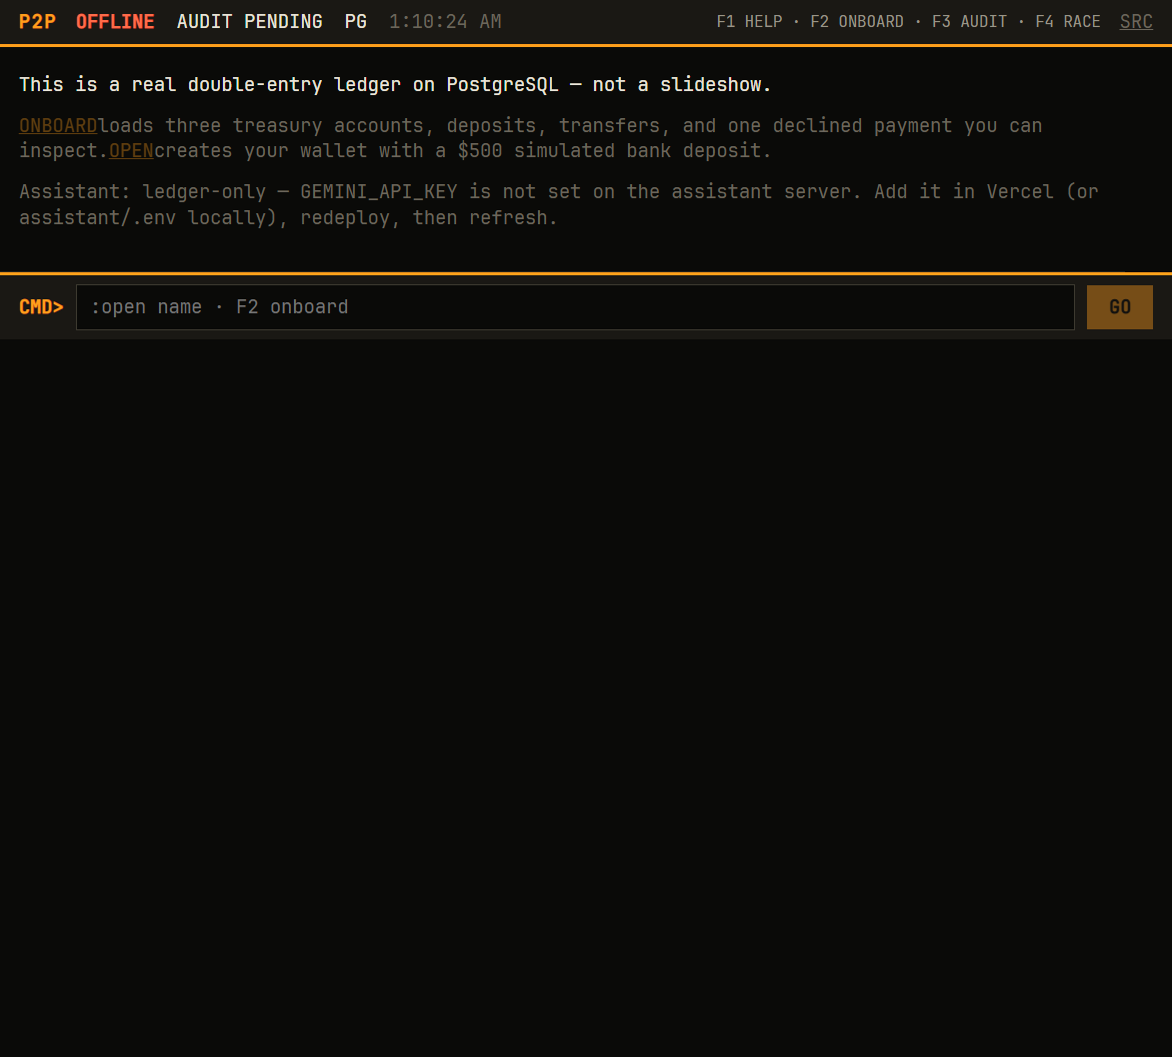
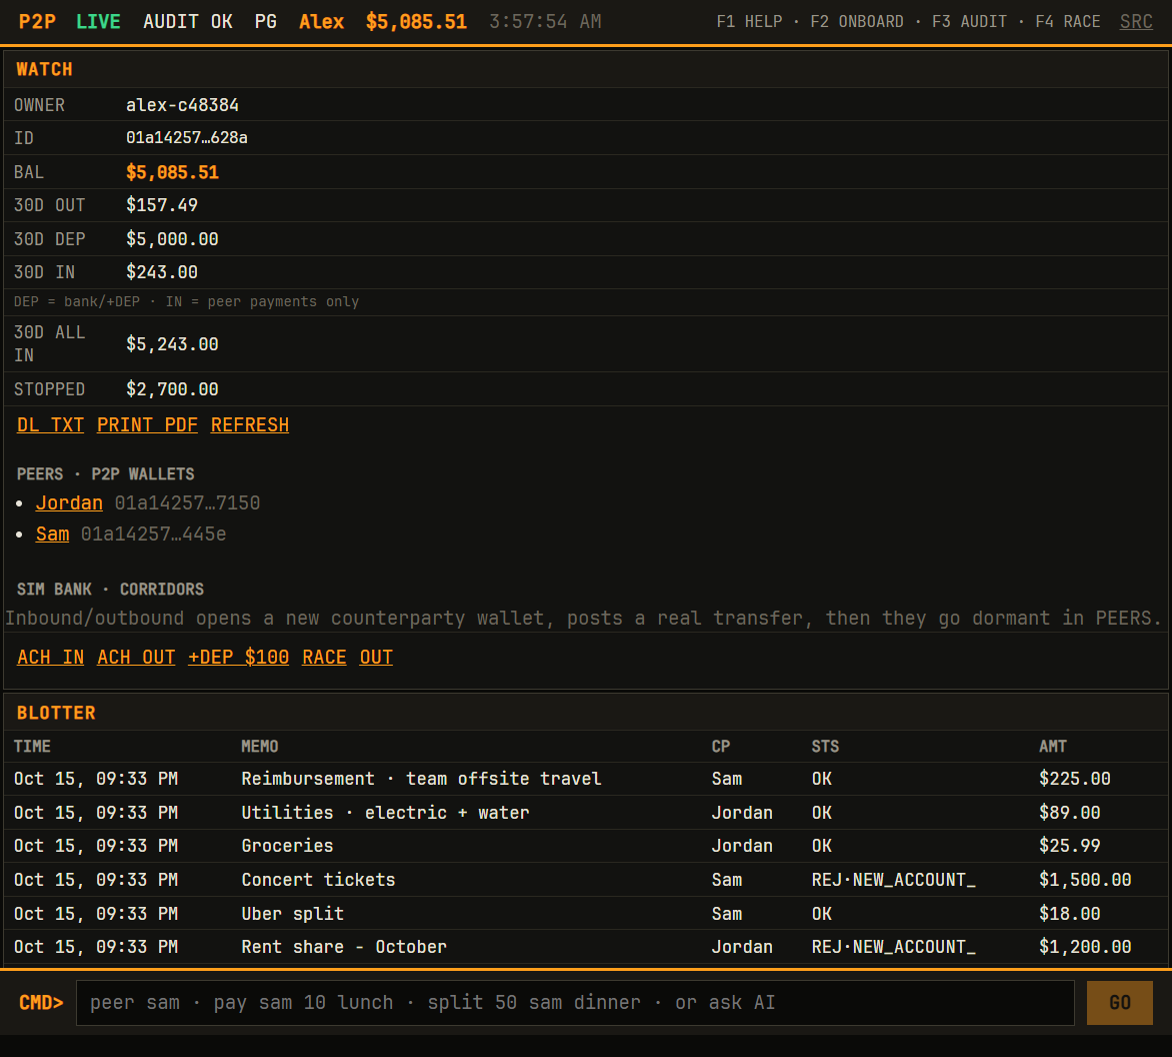
docs: professional README, workstation screenshot, image guide
Merge follow-up: hero figure from live demo, ops briefing link, accurate terminal copy, refresh terminal-watch asset.

diff --git a/README.md b/README.md
@@ -1,15 +1,15 @@
 # p2p-ledger
 
-**A production-style peer-to-peer payments ledger with an LLM support layer** — double-entry money movement in Java, a TypeScript app API and UI, and deterministic evals over real account data.
+**Production-style peer-to-peer payments ledger with an LLM support layer** — double-entry money movement in Java, a TypeScript terminal and BFF, and deterministic evals over real account data.
 
 <p align="center">
-  <a href="https://p2p-ledger-pi.vercel.app"><strong>Live assistant</strong></a>
+  <a href="https://p2p-ledger-pi.vercel.app"><strong>Live demo</strong></a>
   ·
-  <a href="docs/API.md">API reference</a>
+  <a href="docs/API.md">API</a>
   ·
-  <a href="docs/ARCHITECTURE.md">Ledger deep-dive</a>
+  <a href="docs/ARCHITECTURE.md">Architecture</a>
   ·
-  <a href="docs/P2P-SOLIDITY-AND-SCALE.md">P2P &amp; on-chain</a>
+  <a href="docs/BRIEFING.md">Ops briefing</a>
 </p>
 
 <p align="center">
@@ -17,99 +17,73 @@
   <a href="https://github.com/developer-az/p2p-ledger/actions/workflows/assistant-ci.yml"><img src="https://github.com/developer-az/p2p-ledger/actions/workflows/assistant-ci.yml/badge.svg" alt="assistant CI"></a>
 </p>
 
+<p align="center">
+  <img src="docs/images/terminal-workstation.png" alt="P2P ledger terminal — WATCH, BLOTTER, AUDIT/MSG, and command line on PostgreSQL" width="900">
+</p>
+<p align="center"><sub>Terminal workstation on live PostgreSQL · <a href="https://p2p-ledger-pi.vercel.app">open demo</a> · F2 ONBOARD to seed wallets</sub></p>
+
 ---
 
 ## Overview
 
-**Problem.** Moving money between people needs a single source of truth: balances that stay correct under concurrency, safe retries, auditable history, and explainable declines — not ad hoc balances in an app server.
-
-**Approach.** `ledger-service` implements that core as a Spring Boot service on PostgreSQL (idempotent transfers, row-level locking, fraud rules, transactional outbox). `assistant` is the product surface: a **terminal UI**, Hono `/api` BFF, **P2P peer lane**, **simulated bank corridors**, and read-only LLM tools bound to the signed-in wallet. Writes (send, deposit, bank flows) go through explicit HTTP routes that proxy the Java API.
-
-**Scope.** This repo is an end-to-end system: Docker local stack, native-image CI, $0 deployment path (Render, Supabase, SQS via Terraform, Vercel for the UI), load tests, and property-style integration tests. It is a **demo / portfolio** deployment, not a regulated bank — see [docs/SECURITY.md](docs/SECURITY.md).
-
-## Live demo
-
-| Surface | URL |
+| | |
 |---|---|
-| **Assistant (UI + `/api`)** | [p2p-ledger-pi.vercel.app](https://p2p-ledger-pi.vercel.app) |
-| **Ledger API** | Your Render `LEDGER_URL` (set in Vercel env for live mode) |
+| **Problem** | P2P money needs one source of truth: correct balances under concurrency, safe retries, auditable history, explainable declines. |
+| **Approach** | `ledger-service` (Spring Boot + PostgreSQL) is the system of record. `assistant` is the product: Bloomberg-style **terminal UI**, Hono **`/api` BFF**, **simulated bank corridors**, **peer lane**, and read-only **LLM tools** on the signed-in wallet. |
+| **Scope** | End-to-end portfolio system: Docker, native-image CI, Render + Vercel deploy path, k6 load tests, integration tests. Not a licensed bank — [SECURITY.md](docs/SECURITY.md). |
 
-Open the assistant → **F2 ONBOARD** seeds Alex / Sam / Jordan on PostgreSQL when `LEDGER_URL` is live, or use the in-memory practice ledger offline. Full setup: **[docs/DEVELOPMENT.md](docs/DEVELOPMENT.md)**.
+## Live surfaces
 
-### Terminal UI (product surface)
+| Surface | URL / config |
+|---------|----------------|
+| **Assistant** (UI + `/api`) | [p2p-ledger-pi.vercel.app](https://p2p-ledger-pi.vercel.app) |
+| **Ledger API** | Render service → Vercel `LEDGER_URL` |
 
-The React app is a **Bloomberg-style ledger terminal**: ticker, **WATCH** (wallet + simulated bank), **BLOTTER**, **AUDIT/MSG** (Gemini tools), **CMD>** with **GO**, and **F1–F4** shortcuts.
+**Try it:** open the demo → **F2 ONBOARD** (live Postgres when `LEDGER_URL` is set) or resume a saved wallet. Command line: `pay sam 10 lunch`, `bank in`, **F3** company audit. Setup: [DEVELOPMENT.md](docs/DEVELOPMENT.md) · Troubleshooting: [BRIEFING.md](docs/BRIEFING.md).
 
-```mermaid
-flowchart TB
-  subgraph watch["WATCH"]
-    BAL[Balance · cashflow]
-    BANK[SIM BANK · ACH IN / OUT]
-    PEER[PEERS · pay shortcuts]
-  end
-  subgraph cmd["CMD"]
-    PAY[pay sam 10 lunch]
-    BIN[bank in · bank out]
-    FN[F1 help · F2 onboard · F3 audit · F4 race]
-  end
-  watch --> PG[(PostgreSQL ledger)]
-  cmd --> API["/api BFF"]
-  API --> PG
-```
+## Terminal UI
 
-### Simulated bank · corridor peers
+Three panes plus a fixed **CMD** bar:
 
-There is no separate “bank database.” **`bank-sim`** models ACH-style traffic on the **same ledger**:
+| Pane | Purpose |
+|------|---------|
+| **WATCH** | Balance, 30-day flow (deposits vs peer inflow), peer chips, **bank dock** (ACH IN/OUT, +DEP, export) |
+| **BLOTTER** | Transfers; click a row to expand/collapse ledger detail |
+| **AUDIT / MSG** | Company-wide integrity (F3) and AI Q&A via CMD |
 
-1. Each **inbound** or **outbound** flow **opens a new counterparty wallet** (`payroll-*`, `vendor-*`, `client-*`, …).
-2. Inbound corridors **fund** that wallet, then **transfer** to you; outbound corridors **debit** you and credit the vendor wallet.
-3. Counterparties **stay in PEERS** as dormant history (they “came,” settled, then go quiet — like real rails).
-4. **New wallet** open runs **`POST /api/bank/welcome`**: $500 deposit plus one inbound corridor so balances are never empty.
+Shortcuts: **F1** help · **F2** onboard · **F3** audit · **F4** idempotency race.
 
 ```mermaid
-sequenceDiagram
-  participant U as Your wallet
-  participant B as bank-sim
-  participant P as payroll-abc123
-  participant L as ledger-service
-  U->>B: bank in (or welcome)
-  B->>L: openAccount payroll-abc123
-  B->>L: deposit → peer
-  B->>L: transfer peer → U
-  Note over P: Appears in PEERS until history ages out
+flowchart LR
+  UI[Terminal UI] --> API[Hono /api]
+  API --> PG[(PostgreSQL)]
+  API --> LLM[Gemini / OpenRouter]
+  subgraph ledger["ledger-service"]
+    PG
+  end
 ```
 
-### Figures & screenshots
+### Simulated bank (same ledger)
 
-| Asset | Description |
-|-------|-------------|
-| [docs/images/terminal-watch.png](docs/images/terminal-watch.png) | Terminal shell (offline / pre-sign-in) |
-| [docs/images/terminal-blotter.png](docs/images/terminal-blotter.png) | *(optional)* BLOTTER after F2 ONBOARD |
-| Legacy guided UI | [docs/images/assistant-signin.png](docs/images/assistant-signin.png) etc. — older screenshots |
-
-<p align="center">
-  <img src="docs/images/terminal-watch.png" alt="P2P ledger terminal" width="720">
-</p>
-
-See [docs/images/README.md](docs/images/README.md) for more capture steps after `npm run dev:stack`.
+`bank-sim` models ACH-style flows without a second database: each corridor **opens a counterparty wallet**, posts deposits/transfers, then leaves the peer in **PEERS** as history. New wallets get **`/api/bank/welcome`** ($500 + one inbound corridor).
 
 ## System context
 
 ```mermaid
 flowchart LR
   subgraph client["Browser"]
-    UI[React UI]
+    UI[React]
   end
   subgraph vercel["assistant · Vercel"]
     API[Hono /api]
-    LLM[Gemini / Claude]
+    LLM[Gemini / OpenRouter]
   end
   subgraph render["ledger-service · Render"]
-    JVM[Native Spring Boot]
+    JVM[Spring Boot native]
   end
   subgraph data["Data & events"]
-    PG[(Supabase Postgres)]
-    Q[[SQS FIFO / Kafka]]
+    PG[(PostgreSQL)]
+    Q[[SQS / Kafka]]
   end
   UI --> API
   API --> JVM
@@ -119,104 +93,66 @@ flowchart LR
 ```
 
 | Component | Role | Stack |
-|---|---|---|
-| **ledger-service** | System of record — accounts, transfers, fraud, outbox | Java 21, Spring Boot 4, PostgreSQL, GraalVM native, Kafka / SQS |
-| **assistant** | App API, UI, support chat | React, Vite, Hono, TypeScript, Vitest |
-| **CI/CD** | Test, native image → GHCR, deploy hooks | GitHub Actions, Render, Vercel |
+|-----------|------|--------|
+| **ledger-service** | Accounts, transfers, fraud, outbox | Java 21, Spring Boot 4, GraalVM native |
+| **assistant** | UI, BFF, chat tools | React, Vite, Hono, TypeScript |
+| **CI/CD** | Test, image, deploy | GitHub Actions, Render, Vercel |
 
-Transfer path (simplified): idempotency check → lock accounts in PK order → fraud + balance → double-entry rows + outbox in one transaction. Details: [docs/ARCHITECTURE.md](docs/ARCHITECTURE.md).
+Transfer path: idempotency → row locks (PK order) → fraud + balance → double-entry + outbox in one transaction. [ARCHITECTURE.md](docs/ARCHITECTURE.md).
 
 ## Quick start
 
-Prerequisites: **Node 22+**, **Docker Desktop** (live ledger), **Java 21** + Maven/`mvnw` (ledger tests). Details: **[docs/DEVELOPMENT.md](docs/DEVELOPMENT.md)**.
-
-**Ledger only (Docker)**
+Prerequisites: **Node 22+**, **Docker** (live ledger), **Java 21** + `./mvnw` (ledger tests). [DEVELOPMENT.md](docs/DEVELOPMENT.md).
 
 ```bash
-docker compose up --build    # Postgres, Kafka, ledger :8080
+# Practice UI only (in-memory ledger)
+cd assistant && cp .env.example .env.local && npm install && npm run dev
+
+# Live ledger + terminal (recommended)
+cd assistant && npm run dev:stack
+
+# Tests
+cd ledger-service && ./mvnw verify
+cd assistant && npm test && npm run build
 ```
 
-**Full stack (ledger + assistant image)**
+Smoke the deployed app: `cd assistant && npm run smoke:api -- https://p2p-ledger-pi.vercel.app`
 
-```bash
-docker compose up --build    # adds assistant :8787 when configured
-```
+## Assistant API
 
-**Assistant dev (practice ledger, no Docker)**
+Browser → **`/api/*` only**. Live traffic uses `ledger-service` when healthy; otherwise **practice** mode. Notable routes: `/api/peers`, `/api/peer-ledger`, `/api/bank/*`, `/api/chat` (read-only tools). OpenAPI: [assistant/openapi.yaml](assistant/openapi.yaml).
 
-```bash
-cd assistant && cp .env.example .env.local   # optional GEMINI_API_KEY for AUDIT/MSG chat
-npm install && npm run dev                   # UI :5173, /api embedded
-```
+**Quality:** 80+ Vitest tests in CI; optional Gemini evals via Actions ([GITHUB.md](docs/GITHUB.md)).
 
-**Assistant + live ledger (recommended)**
-
-```bash
-cd assistant && npm run dev:stack            # Docker ledger + Vite terminal
-```
-
-**Tests**
-
-```bash
-cd ledger-service && ./mvnw verify           # integration + concurrency (Docker)
-cd assistant && npm test && npm run build      # 68 unit tests, no API key
-```
-
-## Assistant layer
-
-The browser talks only to **`/api/*`**. That layer:
-
-- Routes **live** traffic to `ledger-service` when `LEDGER_URL` is healthy.
-- Falls back to an in-memory **practice** network for offline demos.
-- **`GET /api/peers`** and **`GET /api/peer-ledger`** — bilateral P2P history for the terminal PEERS panel.
-- **`/api/bank/*`** — simulated ACH corridors (ephemeral counterparties on the real ledger).
-- Exposes **chat** with tools scoped to the session account (no send-money tool; P2P uses `POST /api/transfers` or CMD `pay …`).
-
-OpenAPI: [assistant/openapi.yaml](assistant/openapi.yaml) · Integration map: [docs/API.md](docs/API.md) · Dev setup: [docs/DEVELOPMENT.md](docs/DEVELOPMENT.md).
-
-**Quality**
-
-- **Unit tests** — terminal commands, bank-sim, peer ledger, tools, practice ledger, HTTP API (CI gate).
-- **Evals** — 8 deterministic cases over a fixture ledger; run locally or via **Actions → assistant eval (Gemini)** when free-tier quota allows ([docs/GITHUB.md](docs/GITHUB.md)).
-
-## Deployment ($0)
+## Deployment
 
 ```
-GitHub Actions → tests → native image → GHCR → Render deploy hook
-Render (native) → Supabase Postgres
-               → AWS SQS FIFO (Terraform in infra/aws)
-Vercel (assistant/) → LEDGER_URL + GEMINI_API_KEY
+GitHub Actions → tests → native image → GHCR → Render
+Vercel (assistant/) → LEDGER_URL, GEMINI_API_KEY / OPENROUTER_*
+PostgreSQL (Supabase) · SQS FIFO optional (infra/aws)
 ```
 
-| Piece | Choice |
-|---|---|
-| Compute | Render free web service (native image, 0.1 CPU) |
-| Database | Supabase Postgres (session pooler) |
-| Events | SQS FIFO (`infra/aws`) or Kafka locally |
-| UI | Vercel (`assistant/`, `api/index.ts` + `/api/*` rewrite) |
-| Keep-warm | `keep-warm.yml` → `LEDGER_URL` / optional `ASSISTANT_URL` |
-
-Setup checklist: [docs/GITHUB.md](docs/GITHUB.md) · Security model: [docs/SECURITY.md](docs/SECURITY.md).
+Checklist: [GITHUB.md](docs/GITHUB.md).
 
 ## Repository map
 
 | Path | Contents |
-|---|---|
+|------|----------|
 | `ledger-service/` | Java ledger, migrations, native build |
-| `assistant/` | UI, Hono API, evals, Vercel config |
+| `assistant/` | Terminal UI, Hono API, evals |
 | `infra/aws/` | SQS, IAM, budget alarm |
-| `loadtest/` | k6 transfer workload |
-| `docs/` | Architecture, API, **DEVELOPMENT.md**, GitHub setup, screenshots |
-
-## Engineering notes
-
-- **Performance:** Native image ~3.6s startup vs ~144s JVM on 0.1 CPU; k6 tables in [docs/ARCHITECTURE.md](docs/ARCHITECTURE.md).
-- **AI-assisted development:** Implementation and benchmarks were built with AI coding tools under author review; load tests exposed JVM OOM under virtual-thread burst; native smoke caught frozen `@ConditionalOnProperty` for event sinks. Metrics in docs are reproduced from scripts in-repo.
+| `loadtest/` | k6 |
+| `docs/` | Architecture, API, briefing, images |
 
 ## Roadmap
 
-- [x] Ledger core, fraud, outbox, CI, native deploy pipeline
-- [x] Assistant: P2P UI, BFF API, tool-calling chat, evals
-- [x] Terminal UI, simulated bank corridors, peer lane, documentation
-- [ ] Refresh `docs/images/terminal-*.png` on Vercel after deploy
-- [ ] OAuth and session-bound wallets for a non-demo deployment
+- [x] Ledger core, fraud, outbox, native CI/CD
+- [x] Terminal UI, bank sim, peers, LLM tools, evals
+- [x] Ops briefing and README figures
+- [ ] Owner prefix search (Java)
+- [ ] OAuth / session-bound wallets
+- [ ] On-chain attestation bridge (optional) — [P2P-SOLIDITY-AND-SCALE.md](docs/P2P-SOLIDITY-AND-SCALE.md)
+
+## Engineering notes
+
+Native image ~3.6s cold start vs ~144s JVM on 0.1 CPU (see [ARCHITECTURE.md](docs/ARCHITECTURE.md)). Load tests drove in-flight limits and GraalVM-native event-sink wiring. Metrics are reproducible from scripts in-repo.

diff --git a/docs/images/README.md b/docs/images/README.md
@@ -1,18 +1,20 @@
 # Documentation images
 
-## Current UI (Bloomberg-style terminal)
+PNG assets for the root **README** and portfolio use. Prefer captures from **live** or `npm run dev:stack` after UI changes.
 
-Check in PNGs from a local `npm run dev:stack` session:
+## Terminal (current product)
 
-| File | Suggested capture |
-|------|-------------------|
-| `terminal-watch.png` | WATCH panel: balance, SIM BANK · ACH IN/OUT |
-| `terminal-blotter.png` | BLOTTER with recent transfers |
-| `terminal-peers.png` | PEERS lane + pay shortcuts |
-| `terminal-audit.png` | AUDIT tab or F3 integrity banner |
+| File | Capture |
+|------|---------|
+| `terminal-workstation.png` | Signed-in session: WATCH · BLOTTER · AUDIT/MSG · CMD (1280×720 or wider) |
+| `terminal-watch.png` | Same as workstation hero, or crop on WATCH + bank dock |
 
-Root `README.md` references these when present. Until then, Mermaid figures in the README describe the same flows.
+**How to refresh**
 
-## Legacy (guided sign-in UI)
+1. Open [p2p-ledger-pi.vercel.app](https://p2p-ledger-pi.vercel.app) (or local `npm run dev:stack`).
+2. **F2 ONBOARD** or resume a saved wallet.
+3. Full-page screenshot; save under `docs/images/` and commit.
 
-`assistant-signin.png`, `assistant-overview.png`, `assistant-send.png`, and `assistant-ask.png` are from the older multi-pane assistant. They remain for history; prefer terminal assets for new docs.
+## Archive (guided UI, pre-terminal)
+
+`assistant-signin.png`, `assistant-overview.png`, `assistant-send.png`, `assistant-ask.png` — older multi-pane UI; kept for history only.

diff --git a/docs/PRODUCT.md b/docs/PRODUCT.md
@@ -6,7 +6,7 @@
 |--------|----------------|
 | **ledger-service** | System of record: accounts, transfers, deposits, **ledger_entries**, fraud rules, idempotency, outbox |
 | **assistant `/api`** | Public BFF + terminal UI; no shadow balances |
-| **assistant UI** | Operator terminal: **guided visual intro** (pre-sign-in), overview + **SVG analytics**, ledger statement, send, activity, ask |
+| **assistant UI** | Bloomberg-style **terminal**: WATCH, BLOTTER, AUDIT/MSG, CMD; optional guided intro pre-sign-in |
 
 Practice mode mirrors stories in-memory; **live mode** is always PostgreSQL on Render.
 
